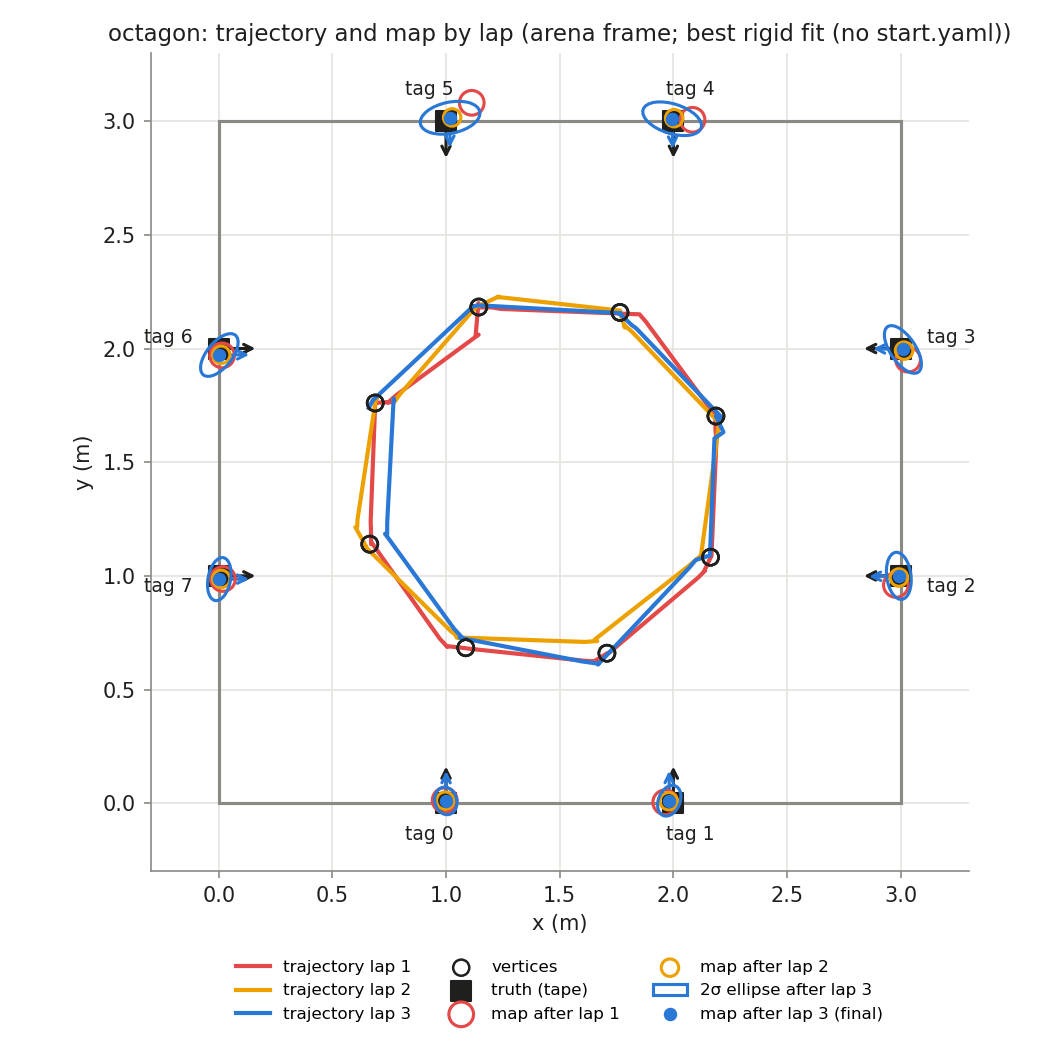
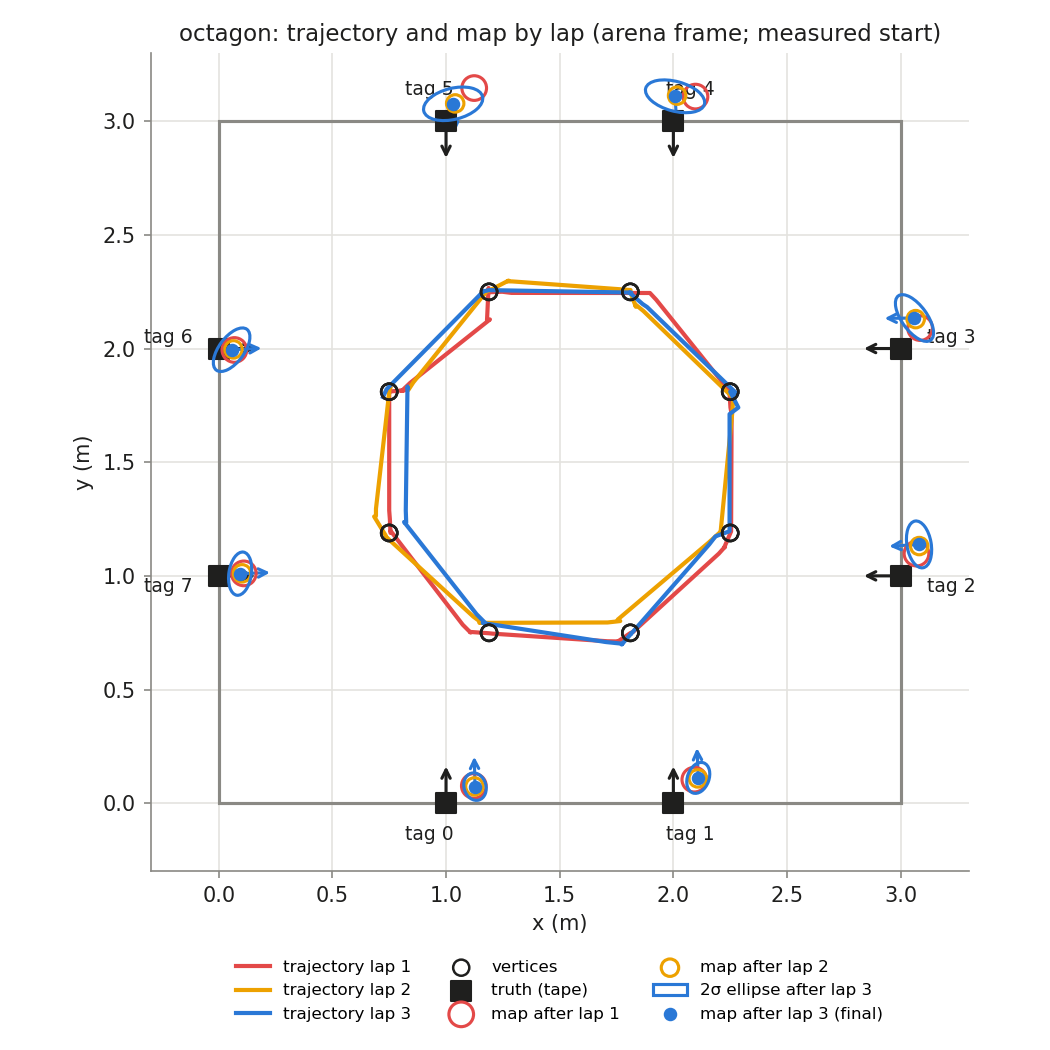
demo result

diff --git a/HW3/logs/run_20261107_001535/report.md b/HW3/logs/run_20261107_001535/report.md
@@ -10,19 +10,20 @@
 
 ### Final map vs truth
 
-Placement in the arena: best rigid fit (no start.yaml) (0.729, 1.786, -89.5°)
+Placement in the arena: measured start (0.750, 1.810, -90.0°)
 
 | tag | estimate (arena) | truth | 2σ ellipse (cm) | error, measured start (cm) | error, rigid fit (cm) | ψ error (°) |
 |---|---|---|---|---|---|---|
-| 0 | (0.990, 0.006, +89.1°) | (1.000, 0.000, +90.0°) | 6.4 × 5.0 | — | 1.2 | -0.9 |
-| 1 | (1.971, -0.004, +88.7°) | (2.000, 0.000, +90.0°) | 7.5 × 4.9 | — | 3.0 | -1.3 |
-| 2 | (3.009, 0.987, -179.2°) | (3.000, 1.000, +180.0°) | 12.9 × 5.7 | — | 1.6 | +0.8 |
-| 3 | (3.011, 2.013, +179.2°) | (3.000, 2.000, +180.0°) | 14.5 × 6.2 | — | 1.7 | -0.8 |
-| 4 | (1.985, 3.021, -87.1°) | (2.000, 3.000, -90.0°) | 16.1 × 7.0 | — | 2.6 | +2.9 |
-| 5 | (1.002, 3.000, -89.4°) | (1.000, 3.000, -90.0°) | 15.6 × 6.8 | — | 0.2 | +0.6 |
-| 6 | (0.014, 1.983, +1.3°) | (0.000, 2.000, +0.0°) | 13.2 × 6.0 | — | 2.2 | +1.3 |
-| 7 | (0.018, 0.995, +0.5°) | (0.000, 1.000, +0.0°) | 10.4 × 5.1 | — | 1.9 | +0.5 |
+| 0 | (0.997, 0.027, +88.6°) | (1.000, 0.000, +90.0°) | 6.4 × 5.0 | 2.7 | 1.2 | -1.4 |
+| 1 | (1.977, 0.009, +88.2°) | (2.000, 0.000, +90.0°) | 7.5 × 4.9 | 2.5 | 3.0 | -1.8 |
+| 2 | (3.024, 0.992, -179.7°) | (3.000, 1.000, +180.0°) | 12.9 × 5.7 | 2.5 | 1.6 | +0.3 |
+| 3 | (3.034, 2.017, +178.8°) | (3.000, 2.000, +180.0°) | 14.5 × 6.2 | 3.9 | 1.7 | -1.2 |
+| 4 | (2.016, 3.034, -87.6°) | (2.000, 3.000, -90.0°) | 16.1 × 7.0 | 3.8 | 2.6 | +2.4 |
+| 5 | (1.034, 3.021, -89.9°) | (1.000, 3.000, -90.0°) | 15.6 × 6.8 | 4.0 | 0.2 | +0.1 |
+| 6 | (0.037, 2.013, +0.8°) | (0.000, 2.000, +0.0°) | 13.2 × 6.0 | 3.9 | 2.2 | +0.8 |
+| 7 | (0.033, 1.025, +0.0°) | (0.000, 1.000, +0.0°) | 10.4 × 5.1 | 4.1 | 1.9 | +0.0 |
 
+- **mean error, measured start: 3.4 cm** (rms 3.5, max 4.1 cm, mean |ψ| 1.0°)
 - **mean error, best rigid fit: 1.8 cm** (rms 1.9, max 3.0 cm, mean |ψ| 1.1°)
 - mean error after rigid fit **with scale**: 1.8 cm; the map is **1.000×** the truth (a uniform scale error, e.g. tag size or arena size)
 
@@ -30,9 +31,9 @@ Placement in the arena: best rigid fit (no start.yaml) (0.729, 1.786, -89.5°)
 
 | lap | landmarks | mean error (cm) | after rigid fit (cm) | mean σ (cm) | looks | update | init | gate | skip_init | mean d² |
 |---|---|---|---|---|---|---|---|---|---|---|
-| 1 | 8 | — | 2.1 | 8.0 | 25 | 41 | 8 | 0 | 0 | 0.51 |
-| 2 | 8 | — | 1.7 | 7.1 | 27 | 53 | 0 | 0 | 0 | 0.49 |
-| 3 | 8 | — | 1.8 | 6.7 | 27 | 52 | 0 | 0 | 0 | 0.45 |
+| 1 | 8 | 4.3 | 2.1 | 8.0 | 25 | 41 | 8 | 0 | 0 | 0.51 |
+| 2 | 8 | 3.9 | 1.7 | 7.1 | 27 | 53 | 0 | 0 | 0 | 0.49 |
+| 3 | 8 | 3.4 | 1.8 | 6.7 | 27 | 52 | 0 | 0 | 0 | 0.45 |
 
 ### Landmark cases (new / out of view / re-appeared)
 
@@ -57,19 +58,20 @@ Placement in the arena: best rigid fit (no start.yaml) (0.729, 1.786, -89.5°)
 
 ### Final map vs truth
 
-Placement in the arena: best rigid fit (no start.yaml) (0.688, 1.760, -92.2°)
+Placement in the arena: measured start (0.750, 1.810, -90.0°)
 
 | tag | estimate (arena) | truth | 2σ ellipse (cm) | error, measured start (cm) | error, rigid fit (cm) | ψ error (°) |
 |---|---|---|---|---|---|---|
-| 0 | (0.999, 0.010, +89.2°) | (1.000, 0.000, +90.0°) | 6.1 × 4.8 | — | 1.0 | -0.8 |
-| 1 | (1.982, 0.011, +90.3°) | (2.000, 0.000, +90.0°) | 7.0 × 4.7 | — | 2.1 | +0.3 |
-| 2 | (2.992, 1.000, -178.6°) | (3.000, 1.000, +180.0°) | 10.4 × 5.3 | — | 0.8 | +1.4 |
-| 3 | (3.010, 1.996, +178.4°) | (3.000, 2.000, +180.0°) | 12.1 × 5.6 | — | 1.0 | -1.6 |
-| 4 | (1.995, 3.011, -88.6°) | (2.000, 3.000, -90.0°) | 13.4 × 6.5 | — | 1.2 | +1.4 |
-| 5 | (1.018, 3.015, -90.7°) | (1.000, 3.000, -90.0°) | 13.3 × 6.8 | — | 2.3 | -0.7 |
-| 6 | (0.003, 1.971, +0.7°) | (0.000, 2.000, +0.0°) | 11.2 × 5.5 | — | 2.9 | +0.7 |
-| 7 | (0.002, 0.986, -0.0°) | (0.000, 1.000, +0.0°) | 9.6 × 4.9 | — | 1.4 | -0.0 |
+| 0 | (1.127, 0.073, +91.4°) | (1.000, 0.000, +90.0°) | 6.1 × 4.8 | 14.7 | 1.0 | +1.4 |
+| 1 | (2.110, 0.111, +92.5°) | (2.000, 0.000, +90.0°) | 7.0 × 4.7 | 15.6 | 2.1 | +2.5 |
+| 2 | (3.081, 1.138, -176.4°) | (3.000, 1.000, +180.0°) | 10.4 × 5.3 | 16.0 | 0.8 | +3.6 |
+| 3 | (3.061, 2.134, -179.4°) | (3.000, 2.000, +180.0°) | 12.1 × 5.6 | 14.7 | 1.0 | +0.6 |
+| 4 | (2.007, 3.110, -86.5°) | (2.000, 3.000, -90.0°) | 13.4 × 6.5 | 11.0 | 1.2 | +3.5 |
+| 5 | (1.031, 3.076, -88.5°) | (1.000, 3.000, -90.0°) | 13.3 × 6.8 | 8.3 | 2.3 | +1.5 |
+| 6 | (0.057, 1.995, +2.9°) | (0.000, 2.000, +0.0°) | 11.2 × 5.5 | 5.7 | 2.9 | +2.9 |
+| 7 | (0.094, 1.010, +2.1°) | (0.000, 1.000, +0.0°) | 9.6 × 4.9 | 9.5 | 1.4 | +2.1 |
 
+- **mean error, measured start: 11.9 cm** (rms 12.5, max 16.0 cm, mean |ψ| 2.3°)
 - **mean error, best rigid fit: 1.6 cm** (rms 1.8, max 2.9 cm, mean |ψ| 0.8°)
 - mean error after rigid fit **with scale**: 1.6 cm; the map is **0.999×** the truth (a uniform scale error, e.g. tag size or arena size)
 
@@ -77,9 +79,9 @@ Placement in the arena: best rigid fit (no start.yaml) (0.688, 1.760, -92.2°)
 
 | lap | landmarks | mean error (cm) | after rigid fit (cm) | mean σ (cm) | looks | update | init | gate | skip_init | mean d² |
 |---|---|---|---|---|---|---|---|---|---|---|
-| 1 | 8 | — | 3.9 | 7.2 | 36 | 57 | 8 | 0 | 1 | 0.37 |
-| 2 | 8 | — | 1.8 | 6.1 | 30 | 61 | 0 | 0 | 0 | 0.81 |
-| 3 | 8 | — | 1.6 | 5.9 | 33 | 37 | 0 | 0 | 0 | 0.66 |
+| 1 | 8 | 13.0 | 3.9 | 7.2 | 36 | 57 | 8 | 0 | 1 | 0.37 |
+| 2 | 8 | 12.1 | 1.8 | 6.1 | 30 | 61 | 0 | 0 | 0 | 0.81 |
+| 3 | 8 | 11.9 | 1.6 | 5.9 | 33 | 37 | 0 | 0 | 0 | 0.66 |
 
 ### Landmark cases (new / out of view / re-appeared)
 
@@ -98,5 +100,5 @@ Placement in the arena: best rigid fit (no start.yaml) (0.688, 1.760, -92.2°)
 
 | phase | laps | landmarks | mean error (cm) | after rigid fit (cm) | with scale (cm) | map / truth | lap 1 error (cm) | mean σ lap 1 → last (cm) | drive (m) | turns |
 |---|---|---|---|---|---|---|---|---|---|---|
-| square | 3 | 8 | — | 1.8 | 1.8 | 1.000 | — | 8.0 → 6.7 | 16.1 | 31 |
-| octagon | 3 | 8 | — | 1.6 | 1.6 | 0.999 | — | 7.2 → 5.9 | 13.9 | 34 |
+| square | 3 | 8 | 3.4 | 1.8 | 1.8 | 1.000 | 4.3 | 8.0 → 6.7 | 16.1 | 31 |
+| octagon | 3 | 8 | 11.9 | 1.6 | 1.6 | 0.999 | 13.0 | 7.2 → 5.9 | 13.9 | 34 |

diff --git a/HW3/logs/run_20261107_001535/octagon/report.md b/HW3/logs/run_20261107_001535/octagon/report.md
@@ -8,19 +8,20 @@
 
 ### Final map vs truth
 
-Placement in the arena: best rigid fit (no start.yaml) (0.688, 1.760, -92.2°)
+Placement in the arena: measured start (0.750, 1.810, -90.0°)
 
 | tag | estimate (arena) | truth | 2σ ellipse (cm) | error, measured start (cm) | error, rigid fit (cm) | ψ error (°) |
 |---|---|---|---|---|---|---|
-| 0 | (0.999, 0.010, +89.2°) | (1.000, 0.000, +90.0°) | 6.1 × 4.8 | — | 1.0 | -0.8 |
-| 1 | (1.982, 0.011, +90.3°) | (2.000, 0.000, +90.0°) | 7.0 × 4.7 | — | 2.1 | +0.3 |
-| 2 | (2.992, 1.000, -178.6°) | (3.000, 1.000, +180.0°) | 10.4 × 5.3 | — | 0.8 | +1.4 |
-| 3 | (3.010, 1.996, +178.4°) | (3.000, 2.000, +180.0°) | 12.1 × 5.6 | — | 1.0 | -1.6 |
-| 4 | (1.995, 3.011, -88.6°) | (2.000, 3.000, -90.0°) | 13.4 × 6.5 | — | 1.2 | +1.4 |
-| 5 | (1.018, 3.015, -90.7°) | (1.000, 3.000, -90.0°) | 13.3 × 6.8 | — | 2.3 | -0.7 |
-| 6 | (0.003, 1.971, +0.7°) | (0.000, 2.000, +0.0°) | 11.2 × 5.5 | — | 2.9 | +0.7 |
-| 7 | (0.002, 0.986, -0.0°) | (0.000, 1.000, +0.0°) | 9.6 × 4.9 | — | 1.4 | -0.0 |
+| 0 | (1.127, 0.073, +91.4°) | (1.000, 0.000, +90.0°) | 6.1 × 4.8 | 14.7 | 1.0 | +1.4 |
+| 1 | (2.110, 0.111, +92.5°) | (2.000, 0.000, +90.0°) | 7.0 × 4.7 | 15.6 | 2.1 | +2.5 |
+| 2 | (3.081, 1.138, -176.4°) | (3.000, 1.000, +180.0°) | 10.4 × 5.3 | 16.0 | 0.8 | +3.6 |
+| 3 | (3.061, 2.134, -179.4°) | (3.000, 2.000, +180.0°) | 12.1 × 5.6 | 14.7 | 1.0 | +0.6 |
+| 4 | (2.007, 3.110, -86.5°) | (2.000, 3.000, -90.0°) | 13.4 × 6.5 | 11.0 | 1.2 | +3.5 |
+| 5 | (1.031, 3.076, -88.5°) | (1.000, 3.000, -90.0°) | 13.3 × 6.8 | 8.3 | 2.3 | +1.5 |
+| 6 | (0.057, 1.995, +2.9°) | (0.000, 2.000, +0.0°) | 11.2 × 5.5 | 5.7 | 2.9 | +2.9 |
+| 7 | (0.094, 1.010, +2.1°) | (0.000, 1.000, +0.0°) | 9.6 × 4.9 | 9.5 | 1.4 | +2.1 |
 
+- **mean error, measured start: 11.9 cm** (rms 12.5, max 16.0 cm, mean |ψ| 2.3°)
 - **mean error, best rigid fit: 1.6 cm** (rms 1.8, max 2.9 cm, mean |ψ| 0.8°)
 - mean error after rigid fit **with scale**: 1.6 cm; the map is **0.999×** the truth (a uniform scale error, e.g. tag size or arena size)
 
@@ -28,9 +29,9 @@ Placement in the arena: best rigid fit (no start.yaml) (0.688, 1.760, -92.2°)
 
 | lap | landmarks | mean error (cm) | after rigid fit (cm) | mean σ (cm) | looks | update | init | gate | skip_init | mean d² |
 |---|---|---|---|---|---|---|---|---|---|---|
-| 1 | 8 | — | 3.9 | 7.2 | 36 | 57 | 8 | 0 | 1 | 0.37 |
-| 2 | 8 | — | 1.8 | 6.1 | 30 | 61 | 0 | 0 | 0 | 0.81 |
-| 3 | 8 | — | 1.6 | 5.9 | 33 | 37 | 0 | 0 | 0 | 0.66 |
+| 1 | 8 | 13.0 | 3.9 | 7.2 | 36 | 57 | 8 | 0 | 1 | 0.37 |
+| 2 | 8 | 12.1 | 1.8 | 6.1 | 30 | 61 | 0 | 0 | 0 | 0.81 |
+| 3 | 8 | 11.9 | 1.6 | 5.9 | 33 | 37 | 0 | 0 | 0 | 0.66 |
 
 ### Landmark cases (new / out of view / re-appeared)
 

diff --git a/HW3/logs/run_20261107_001535/square/report.md b/HW3/logs/run_20261107_001535/square/report.md
@@ -8,19 +8,20 @@
 
 ### Final map vs truth
 
-Placement in the arena: best rigid fit (no start.yaml) (0.729, 1.786, -89.5°)
+Placement in the arena: measured start (0.750, 1.810, -90.0°)
 
 | tag | estimate (arena) | truth | 2σ ellipse (cm) | error, measured start (cm) | error, rigid fit (cm) | ψ error (°) |
 |---|---|---|---|---|---|---|
-| 0 | (0.990, 0.006, +89.1°) | (1.000, 0.000, +90.0°) | 6.4 × 5.0 | — | 1.2 | -0.9 |
-| 1 | (1.971, -0.004, +88.7°) | (2.000, 0.000, +90.0°) | 7.5 × 4.9 | — | 3.0 | -1.3 |
-| 2 | (3.009, 0.987, -179.2°) | (3.000, 1.000, +180.0°) | 12.9 × 5.7 | — | 1.6 | +0.8 |
-| 3 | (3.011, 2.013, +179.2°) | (3.000, 2.000, +180.0°) | 14.5 × 6.2 | — | 1.7 | -0.8 |
-| 4 | (1.985, 3.021, -87.1°) | (2.000, 3.000, -90.0°) | 16.1 × 7.0 | — | 2.6 | +2.9 |
-| 5 | (1.002, 3.000, -89.4°) | (1.000, 3.000, -90.0°) | 15.6 × 6.8 | — | 0.2 | +0.6 |
-| 6 | (0.014, 1.983, +1.3°) | (0.000, 2.000, +0.0°) | 13.2 × 6.0 | — | 2.2 | +1.3 |
-| 7 | (0.018, 0.995, +0.5°) | (0.000, 1.000, +0.0°) | 10.4 × 5.1 | — | 1.9 | +0.5 |
+| 0 | (0.997, 0.027, +88.6°) | (1.000, 0.000, +90.0°) | 6.4 × 5.0 | 2.7 | 1.2 | -1.4 |
+| 1 | (1.977, 0.009, +88.2°) | (2.000, 0.000, +90.0°) | 7.5 × 4.9 | 2.5 | 3.0 | -1.8 |
+| 2 | (3.024, 0.992, -179.7°) | (3.000, 1.000, +180.0°) | 12.9 × 5.7 | 2.5 | 1.6 | +0.3 |
+| 3 | (3.034, 2.017, +178.8°) | (3.000, 2.000, +180.0°) | 14.5 × 6.2 | 3.9 | 1.7 | -1.2 |
+| 4 | (2.016, 3.034, -87.6°) | (2.000, 3.000, -90.0°) | 16.1 × 7.0 | 3.8 | 2.6 | +2.4 |
+| 5 | (1.034, 3.021, -89.9°) | (1.000, 3.000, -90.0°) | 15.6 × 6.8 | 4.0 | 0.2 | +0.1 |
+| 6 | (0.037, 2.013, +0.8°) | (0.000, 2.000, +0.0°) | 13.2 × 6.0 | 3.9 | 2.2 | +0.8 |
+| 7 | (0.033, 1.025, +0.0°) | (0.000, 1.000, +0.0°) | 10.4 × 5.1 | 4.1 | 1.9 | +0.0 |
 
+- **mean error, measured start: 3.4 cm** (rms 3.5, max 4.1 cm, mean |ψ| 1.0°)
 - **mean error, best rigid fit: 1.8 cm** (rms 1.9, max 3.0 cm, mean |ψ| 1.1°)
 - mean error after rigid fit **with scale**: 1.8 cm; the map is **1.000×** the truth (a uniform scale error, e.g. tag size or arena size)
 
@@ -28,9 +29,9 @@ Placement in the arena: best rigid fit (no start.yaml) (0.729, 1.786, -89.5°)
 
 | lap | landmarks | mean error (cm) | after rigid fit (cm) | mean σ (cm) | looks | update | init | gate | skip_init | mean d² |
 |---|---|---|---|---|---|---|---|---|---|---|
-| 1 | 8 | — | 2.1 | 8.0 | 25 | 41 | 8 | 0 | 0 | 0.51 |
-| 2 | 8 | — | 1.7 | 7.1 | 27 | 53 | 0 | 0 | 0 | 0.49 |
-| 3 | 8 | — | 1.8 | 6.7 | 27 | 52 | 0 | 0 | 0 | 0.45 |
+| 1 | 8 | 4.3 | 2.1 | 8.0 | 25 | 41 | 8 | 0 | 0 | 0.51 |
+| 2 | 8 | 3.9 | 1.7 | 7.1 | 27 | 53 | 0 | 0 | 0 | 0.49 |
+| 3 | 8 | 3.4 | 1.8 | 6.7 | 27 | 52 | 0 | 0 | 0 | 0.45 |
 
 ### Landmark cases (new / out of view / re-appeared)
 
